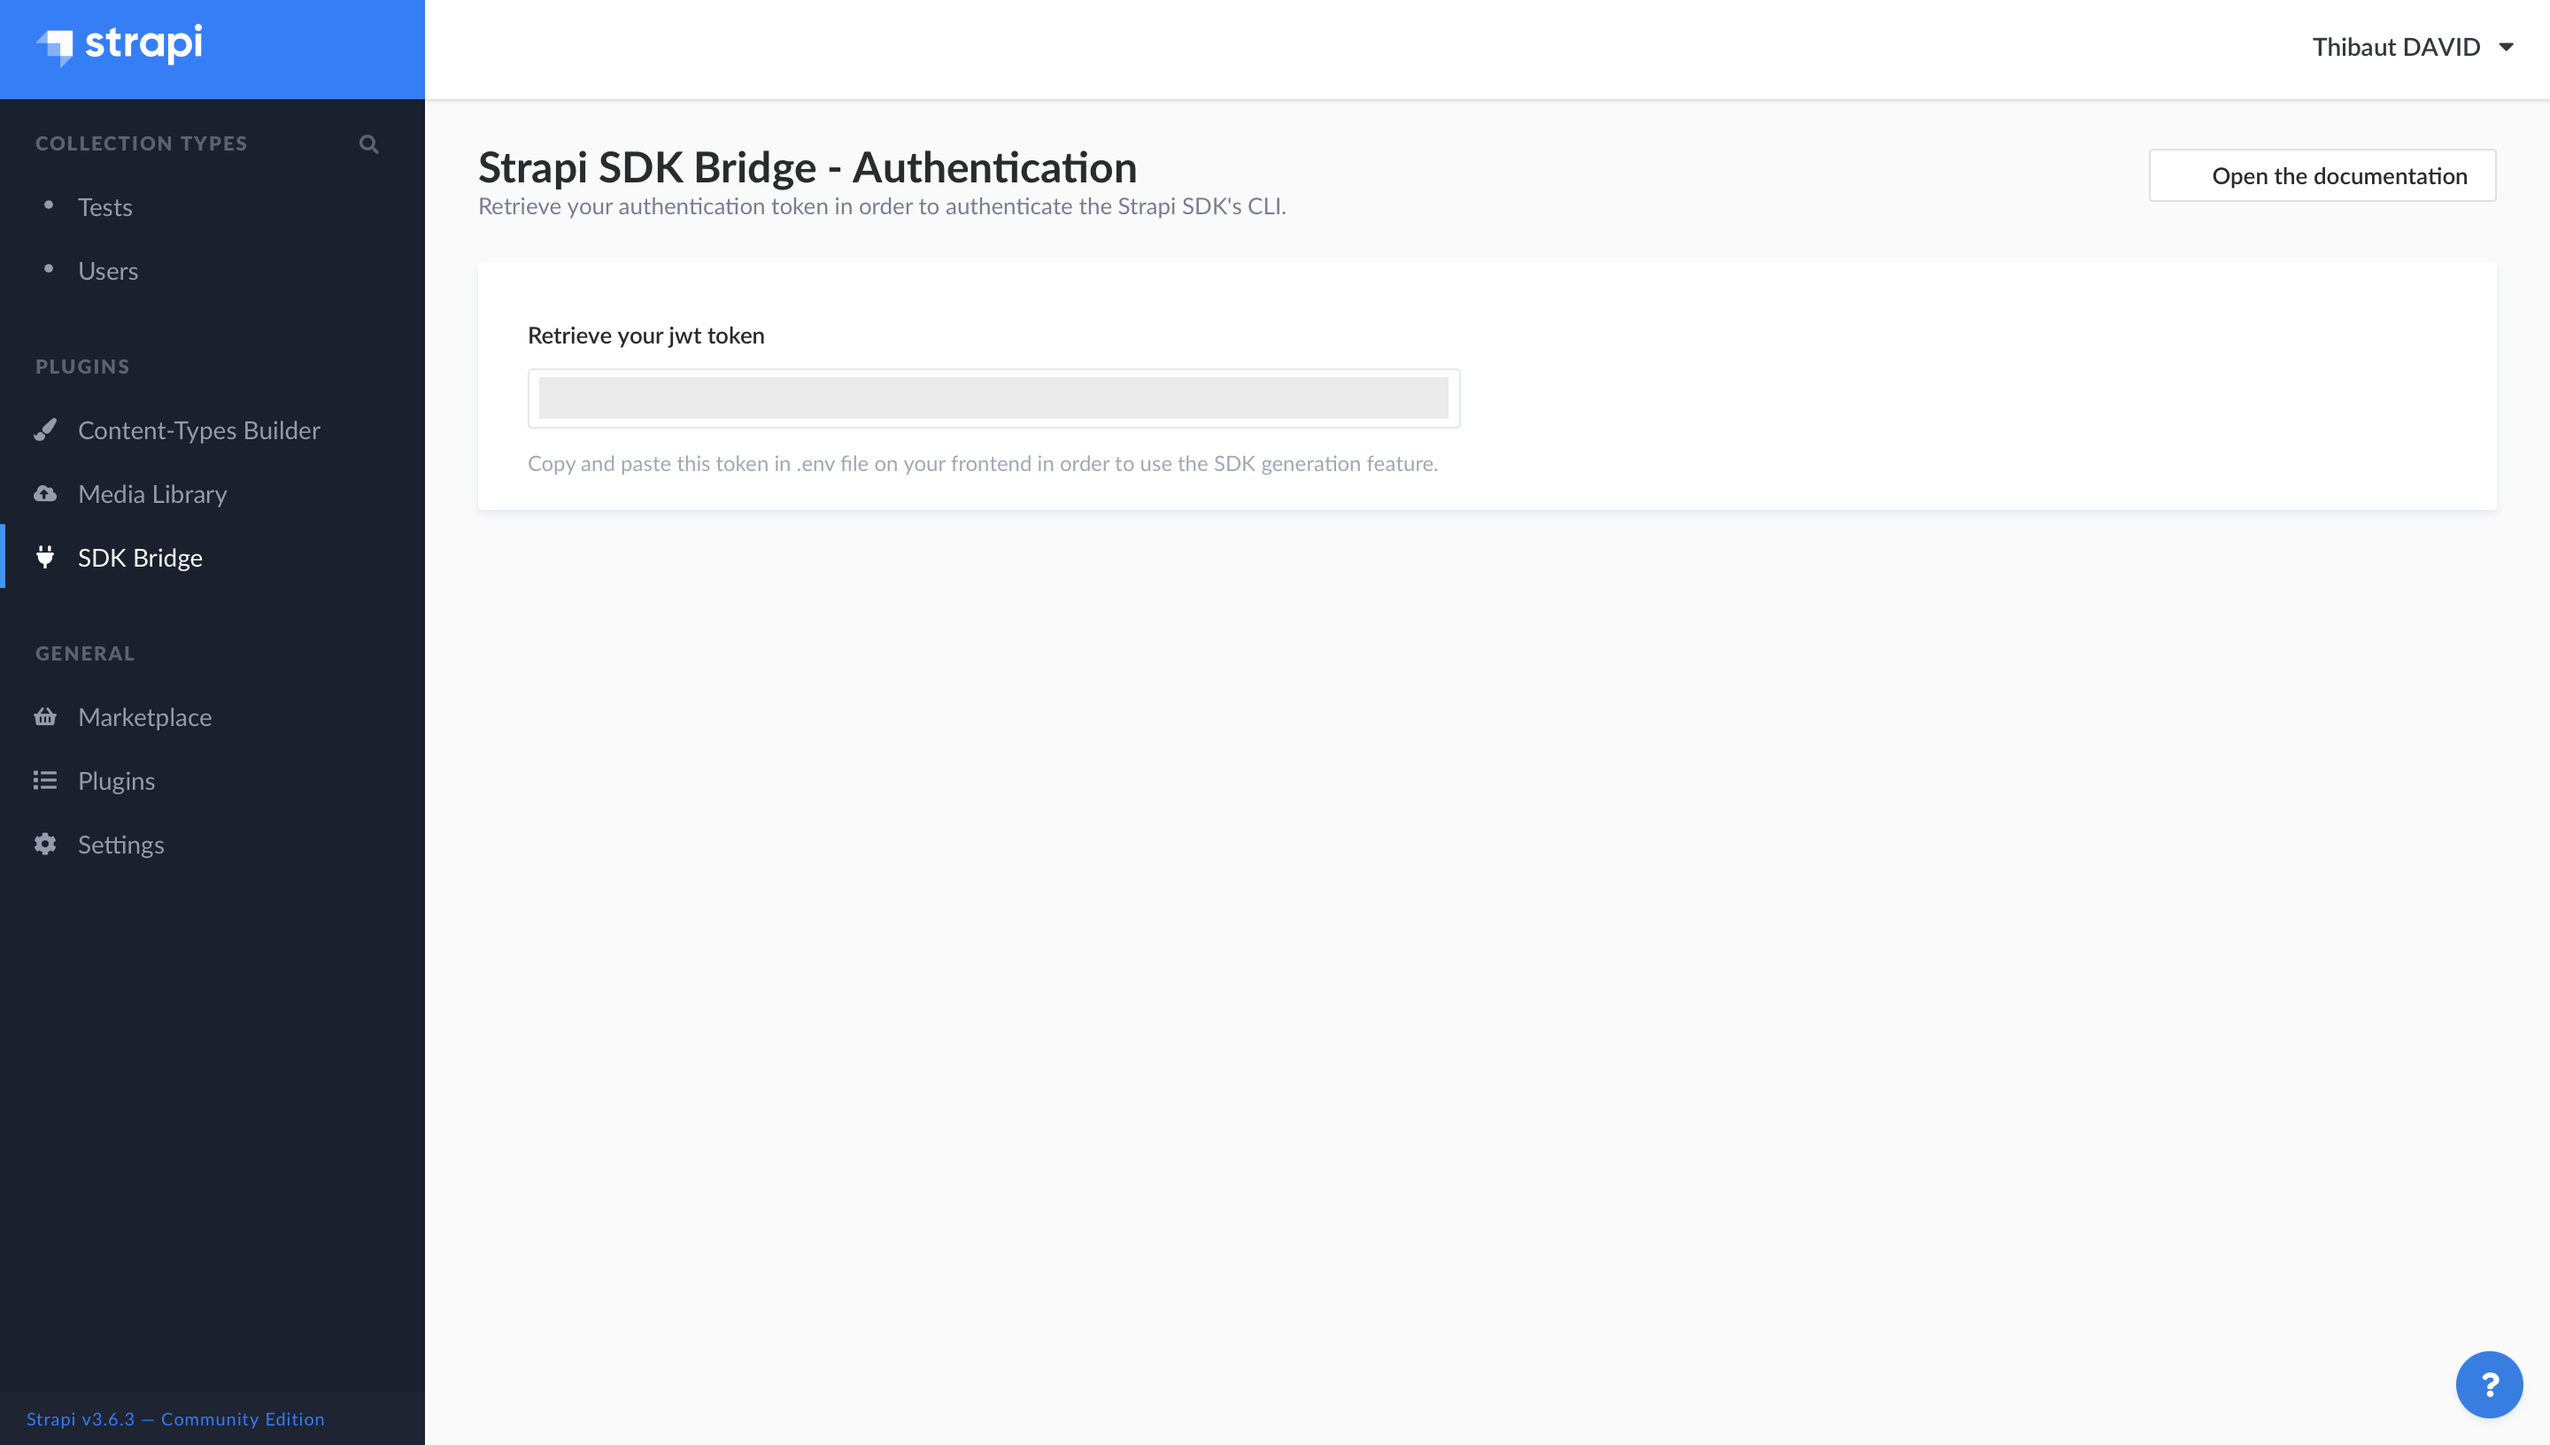
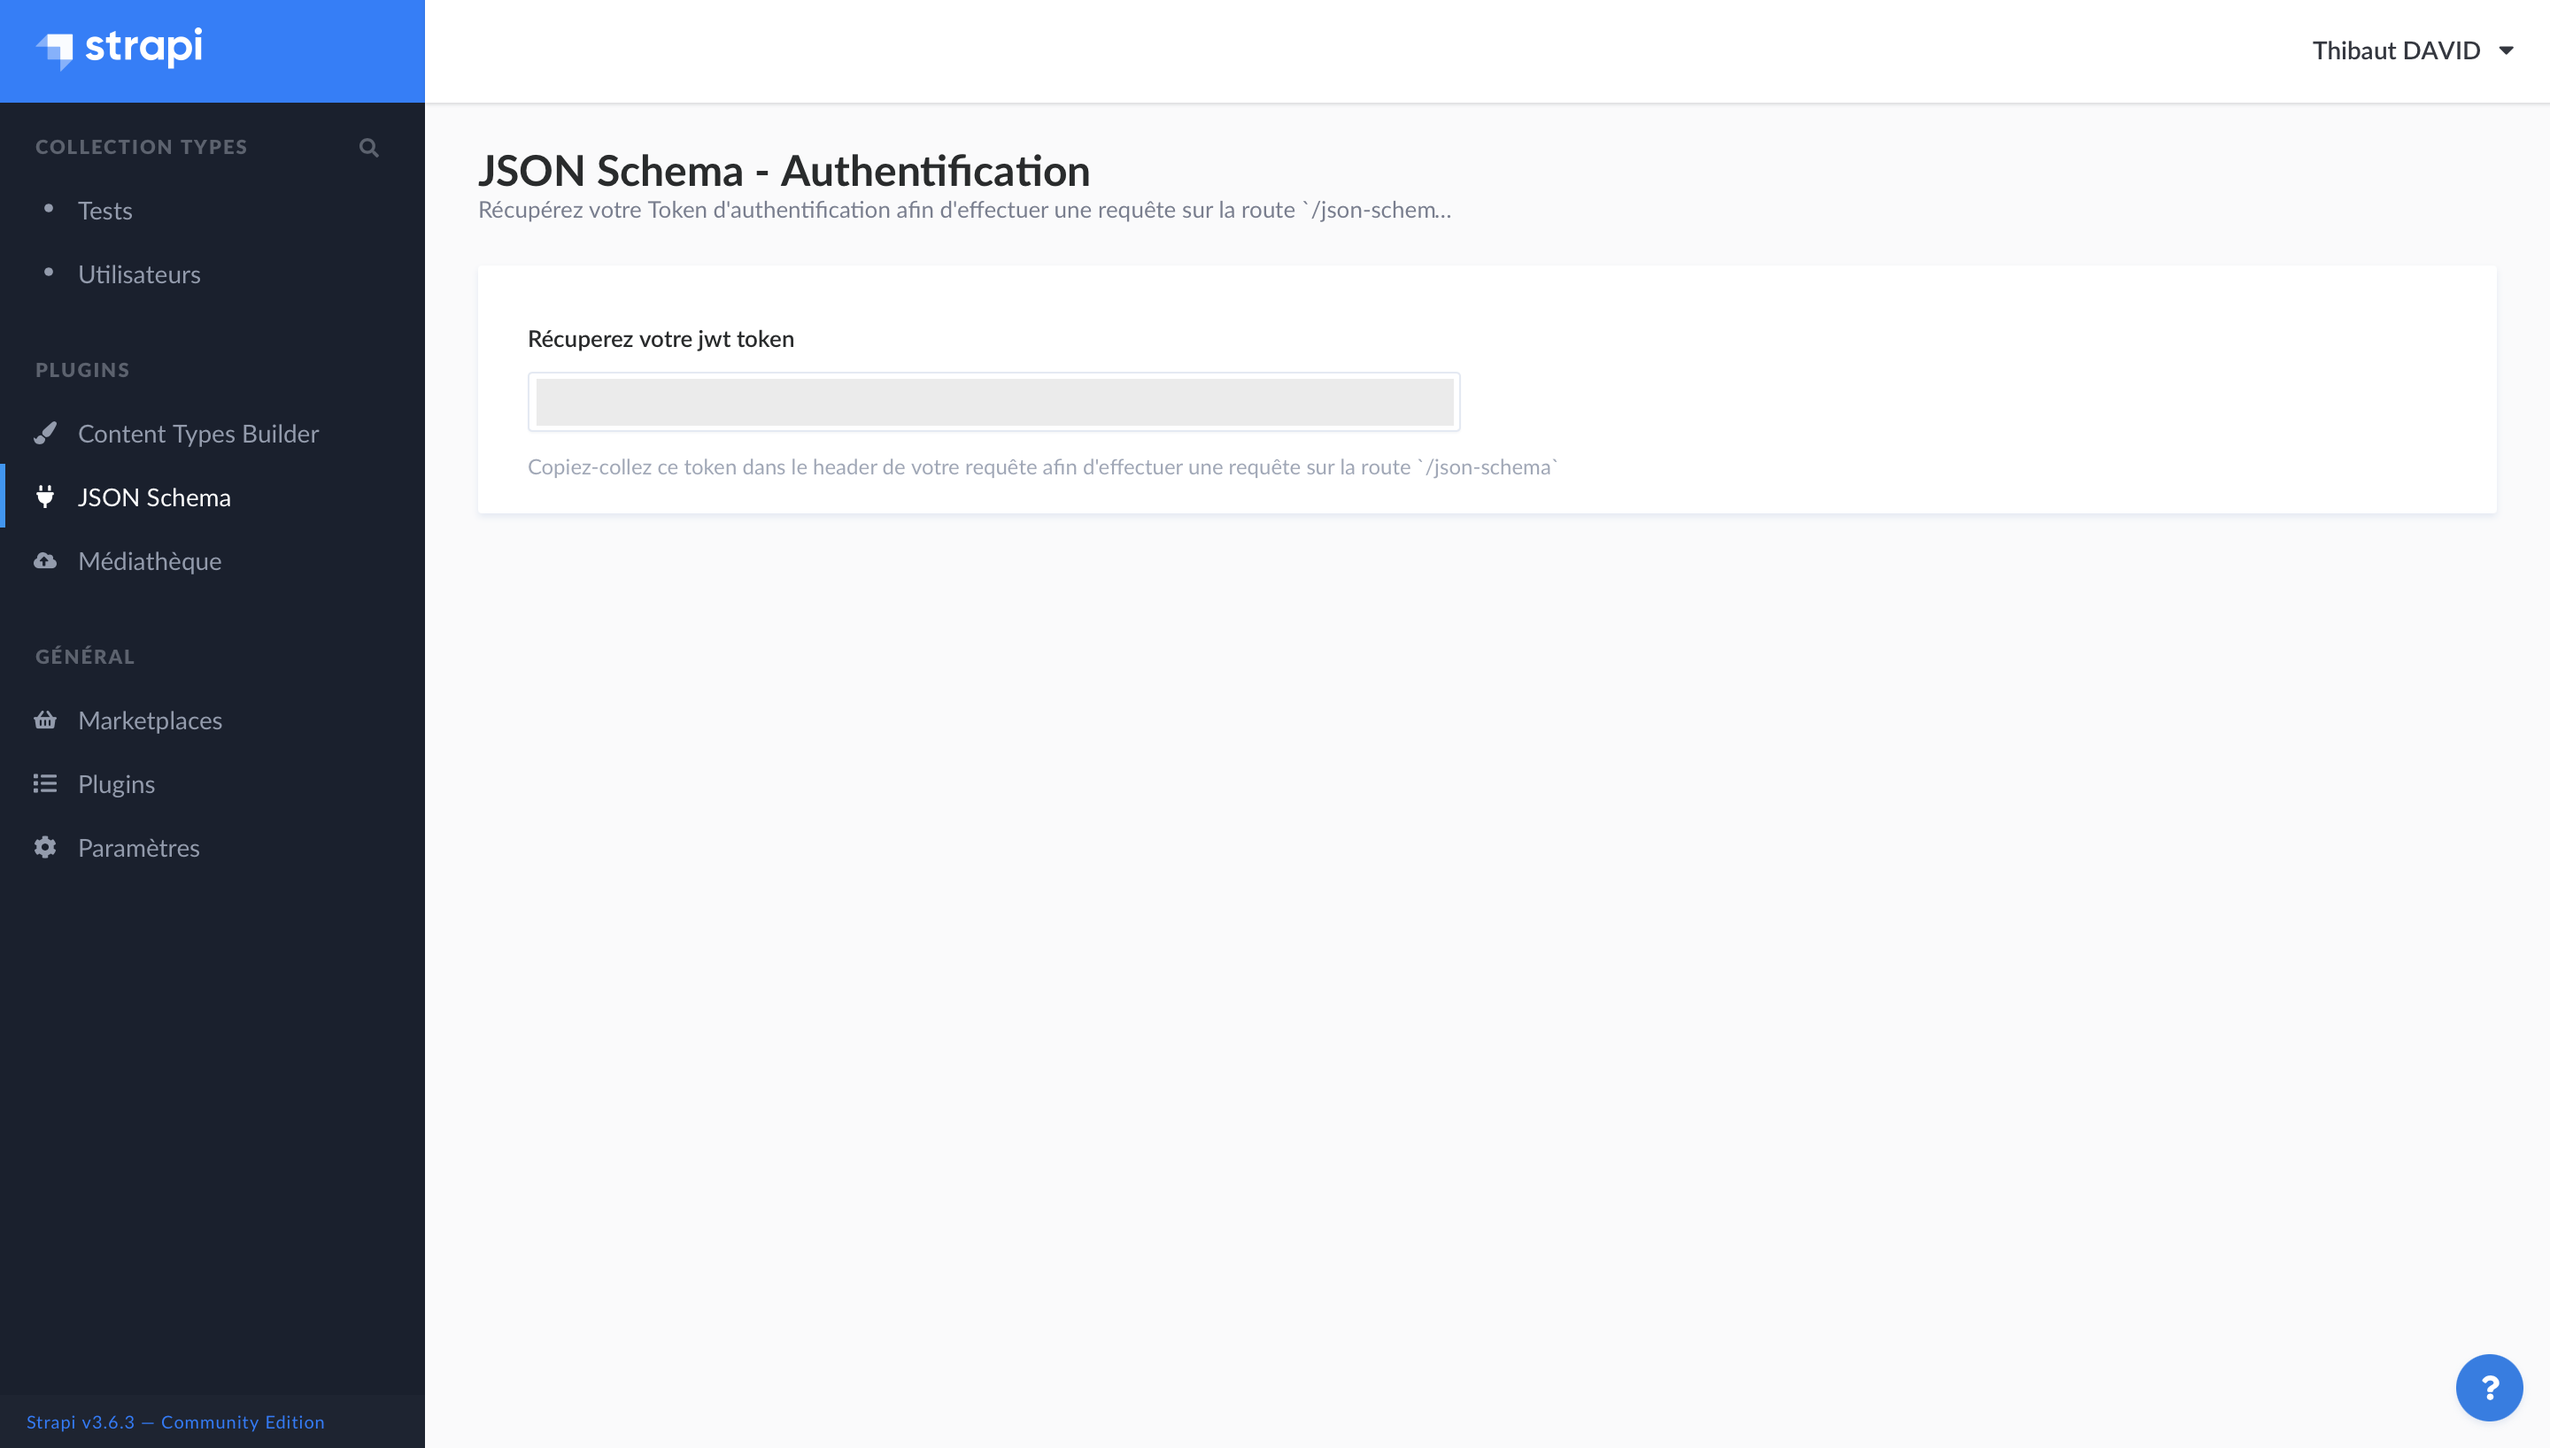
refactor: switch plugin purpose from sdk bridge to json schema generator

diff --git a/controllers/json-schema.js b/controllers/json-schema.js
@@ -1,9 +1,9 @@
 "use strict";
 
 /**
- * sdk-bridge.js controller
+ * json-schema.js controller
  *
- * @description: A set of functions called "actions" of the `sdk-bridge` plugin.
+ * @description: A set of functions called "actions" of the `json-schema` plugin.
  */
 
 const _ = require("lodash");
@@ -14,6 +14,7 @@ const types = {
   richtext: "string",
   email: "string",
   password: "string",
+  enumeration: "string",
   integer: "number",
   biginteger: "number",
   float: "number",
@@ -26,6 +27,10 @@ const types = {
   uid: "string",
 };
 
+const isTsType = (type) => {
+  return type === 'any'
+}
+
 module.exports = {
   /**
    * Default action.
@@ -35,26 +40,20 @@ module.exports = {
 
   index: async (ctx) => {
     // Template of the response
-    const models = {
-      contentTypes: [],
-      schema: [],
-    };
+    const jsonSchema = []
 
     // navigate through all strapi models
     for (const key in strapi.models) {
       // Only get the contentTypes
       if (strapi.models[key].modelType === "contentType") {
-        const contentType = {
-          name: key,
-          type: strapi.models[key].kind,
-        };
-
         // Specify the default value of the schema
         const schema = {
-          $schema: "http://json-schema.org/schema#",
           title: _.capitalize(key),
+          kind: strapi.models[key].kind,
           type: "object",
           properties: {},
+          additionalProperties: false,
+          required: []
         };
 
         // Remove useless field from the attributes
@@ -65,19 +64,25 @@ module.exports = {
 
         // Parse the attributes and create the properties object for type definition
         for (const index in attributes) {
-          if (attributes[index].type === "enumeration") {
-            schema.properties[index] = { enum: attributes[index].enum };
-          } else {
-            schema.properties[index] = { type: types[attributes[index].type] };
+          if (attributes[index].required) {
+            schema.required.push(index)
           }
+          const property = _.omit(attributes[index], ['pluginOptions', 'required'])
+          
+          if (isTsType(property.type)) {
+            property.tsType = types[property.type]
+          } else {
+            property.type = types[property.type]
+          }
+
+          schema.properties[index] = property
         }
 
         // push to the response for the current model
-        models.contentTypes.push(contentType);
-        models.schema.push(schema);
+        jsonSchema.push(schema);
       }
     }
 
-    ctx.send(models);
+    ctx.send(jsonSchema);
   },
 };

diff --git a/admin/src/containers/HomePage/index.js b/admin/src/containers/HomePage/index.js
@@ -27,24 +27,6 @@ export class HomePage extends React.Component {
     return window.focus();
   };
 
-  getPluginHeaderActions = () => {
-    const actions = [
-      {
-        color: 'none',
-        label: this.context.formatMessage({
-          id: getTrad('containers.HomePage.Button.open'),
-        }),
-        className: 'buttonOutline',
-        onClick: this.openDocumentation,
-        type: 'button',
-        key: 'button-open',
-        Component: (props) => <Button {...props} />,
-      },
-    ];
-
-    return actions;
-  };
-
   handleCopy = () => {
     strapi.notification.toggle({
       type: 'info',
@@ -57,7 +39,6 @@ export class HomePage extends React.Component {
     return (
       <ContainerFluid className="container-fluid">
         <Header
-          actions={this.getPluginHeaderActions()}
           title={{
             label: formatMessage({
               id: getTrad('containers.HomePage.PluginHeader.title'),

diff --git a/services/json-schema.js b/services/json-schema.js
@@ -1,7 +1,7 @@
 'use strict';
 
 /**
- * sdk-bridge.js service
+ * json-schema.js service
  *
  * @description: A set of functions similar to controller's actions to avoid code duplication.
  */

diff --git a/README.md b/README.md
@@ -1,19 +1,19 @@
-![strapi-plugin-sdk-bridge](./public/assets/preview.png)
-# Strapi - SDK Bridge plugin
+![strapi-plugin-json-schema](./public/assets/preview.png)
+# Strapi - JSON Schema plugin
 
 [![npm version][npm-version-src]][npm-version-href]
 [![npm downloads][npm-downloads-src]][npm-downloads-href]
 [![License][license-src]][license-href]
 
-> Bridge for the [Strapi SDK JS](https://strapi-sdk-js.netlify.app) package CLI to generate types based on your  API content types.
+> Generate [JSON Schema](https://json-schema.org) based on your Strapi content types.
 
-- [✨ &nbsp;Release Notes](https://github.com/stun3r/strapi-plugin-sdk-bridge/releases)
+- [✨ &nbsp;Release Notes](https://github.com/stun3r/strapi-plugin-json-schema/releases)
 
 ## How it works?
 
-1. Generate JSON schema based on your Strapi content types
-2. Aggregate the list of content type with they kind (collection | single) in an array
-3. The Strapi SDK will trigger this plugin in order to generate lot of usefull things (Typescript Types, shortcuts methods)
+1. Generate JSON schema based on your Strapi content types.
+2. Add custom keyword `kind` in order to tell you if it's a single type or a collection type.
+3. The Strapi SDK will trigger this plugin in order to generate Typescript Types.
 
 ## Getting started
 
@@ -21,13 +21,13 @@
 
 You have to install this plugin within your Strapi project thanks [**yarn**](https://classic.yarnpkg.com/en/docs/install/):
 ```bash
-yarn add strapi-generate-types
+yarn add strapi-plugin-json-schema
 ```
 
-After successful installation you've to build a fresh package that includes  plugin UI. To archive that simply use:
+After successful installation you've to build a fresh package that includes plugin UI. To archive that simply use:
 
 ```bash
-yarn build
+yarn build --clean
 yarn develop
 ```
 
@@ -37,7 +37,7 @@ or just run Strapi in the development mode with `--watch-admin` option:
 yarn develop --watch-admin
 ```
 
-The **SDK Bridge** plugin should appear in the **Plugins** section of Strapi sidebar after you run app again.
+The **JSON Schema** plugin should appear in the **Plugins** section of Strapi sidebar after you run app again.
 
 Enjoy 🎉
 
@@ -56,38 +56,21 @@ Complete installation requirements are exact same as for Strapi itself and can b
 
 ### 🕹 Usage
 
-In order to use it, you have to install [Strapi SDK JS](https://strapi-sdk-js.netlify.app) on your frontend application:
-```bash
-yarn add strapi-sdk-js
-```
-**or**
-```bash
-npm install --save strapi-sdk-js
-```
+In order to use it, you can use your best HTTP Client or software like Postman.
 
-Then you'll have to go to your [admin panel](http://localhost:1337/admin/plugins/sdk-bridge) in order to copy your JWT token & paste in a `.env` file inside your frontend application.
-
-After this step, you'll have to go inside your frontend application and use the CLI, as bellow:
-```bash
-yarn strapi-sdk-js generate
-```
-**or**
-```bash
-npx strapi-sdk-js generate
-```
-
-The prompt will ask your **strapi host** (default: `http://localhost:1337`) and generate the Typescript's types & content Type JSON in a `models` folder
+Then you'll have to go to your [admin panel](http://localhost:1337/admin/plugins/json-schema) in order to copy your JWT token & paste into `Authorization` header.
+Finally you'll be able to trigger the endpoint `strapi-host/json-schema` and it will return an array of JSON Schema.
 
 ## License
 
 [MIT License](./LICENSE)
 
 <!-- Badges -->
-[npm-version-src]: https://img.shields.io/npm/v/strapi-plugin-sdk-bridge/latest.svg?style=flat-square
-[npm-version-href]: https://npmjs.com/package/strapi-plugin-sdk-bridge
+[npm-version-src]: https://img.shields.io/npm/v/strapi-plugin-json-schema/latest.svg?style=flat-square
+[npm-version-href]: https://npmjs.com/package/strapi-plugin-json-schema
 
-[npm-downloads-src]: https://img.shields.io/npm/dt/strapi-plugin-sdk-bridge.svg?style=flat-square
-[npm-downloads-href]: https://npmjs.com/package/strapi-plugin-sdk-bridge
+[npm-downloads-src]: https://img.shields.io/npm/dt/strapi-plugin-json-schema.svg?style=flat-square
+[npm-downloads-href]: https://npmjs.com/package/strapi-plugin-json-schema
 
-[license-src]: https://img.shields.io/npm/l/strapi-plugin-sdk-bridge.svg?style=flat-square
+[license-src]: https://img.shields.io/npm/l/strapi-plugin-json-schema.svg?style=flat-square
 [license-href]: ./LICENSE

diff --git a/CHANGELOG.md b/CHANGELOG.md
@@ -3,5 +3,5 @@
 
 ### Bug Fixes
 
-* **deps:** pin dependencies ([20c2000](https://github.com/Stun3R/strapi-plugin-sdk-bridge/commit/20c2000624ccb14307a0cb9a732bd04988c08e97))
+* **deps:** pin dependencies ([20c2000](https://github.com/Stun3R/strapi-plugin-json-schema/commit/20c2000624ccb14307a0cb9a732bd04988c08e97))
 

diff --git a/.github/ISSUE_TEMPLATE/---feature-request.md b/.github/ISSUE_TEMPLATE/---feature-request.md
@@ -1,6 +1,6 @@
 ---
 name: "\U0001F680 Feature Request"
-about: Suggest an idea or enhancement for the SDK Bridge!
+about: Suggest an idea or enhancement for the JSON Schema!
 title: ''
 labels: enhancement
 assignees: ''
